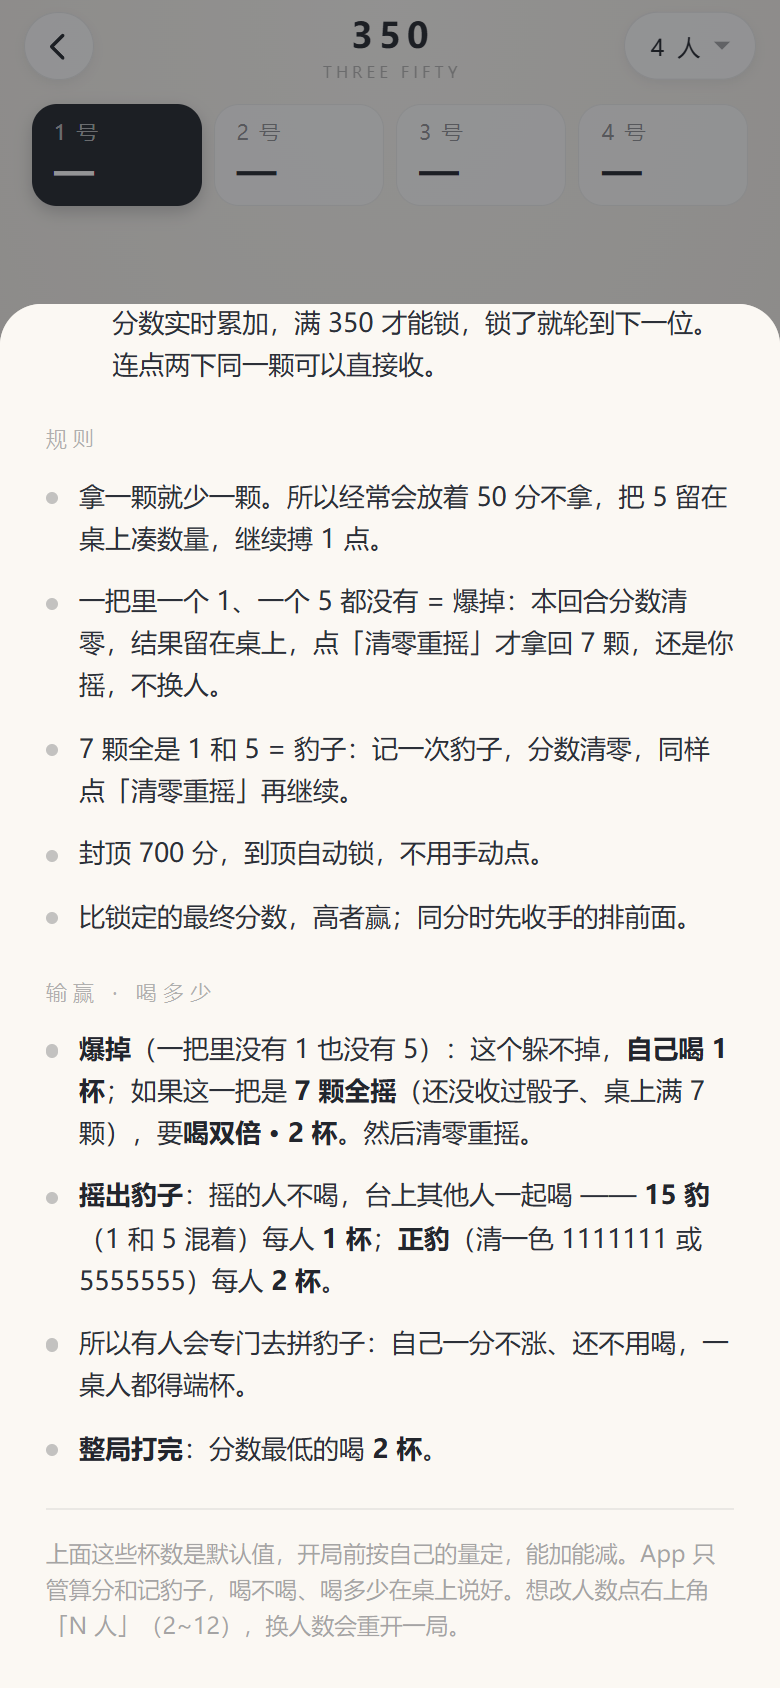
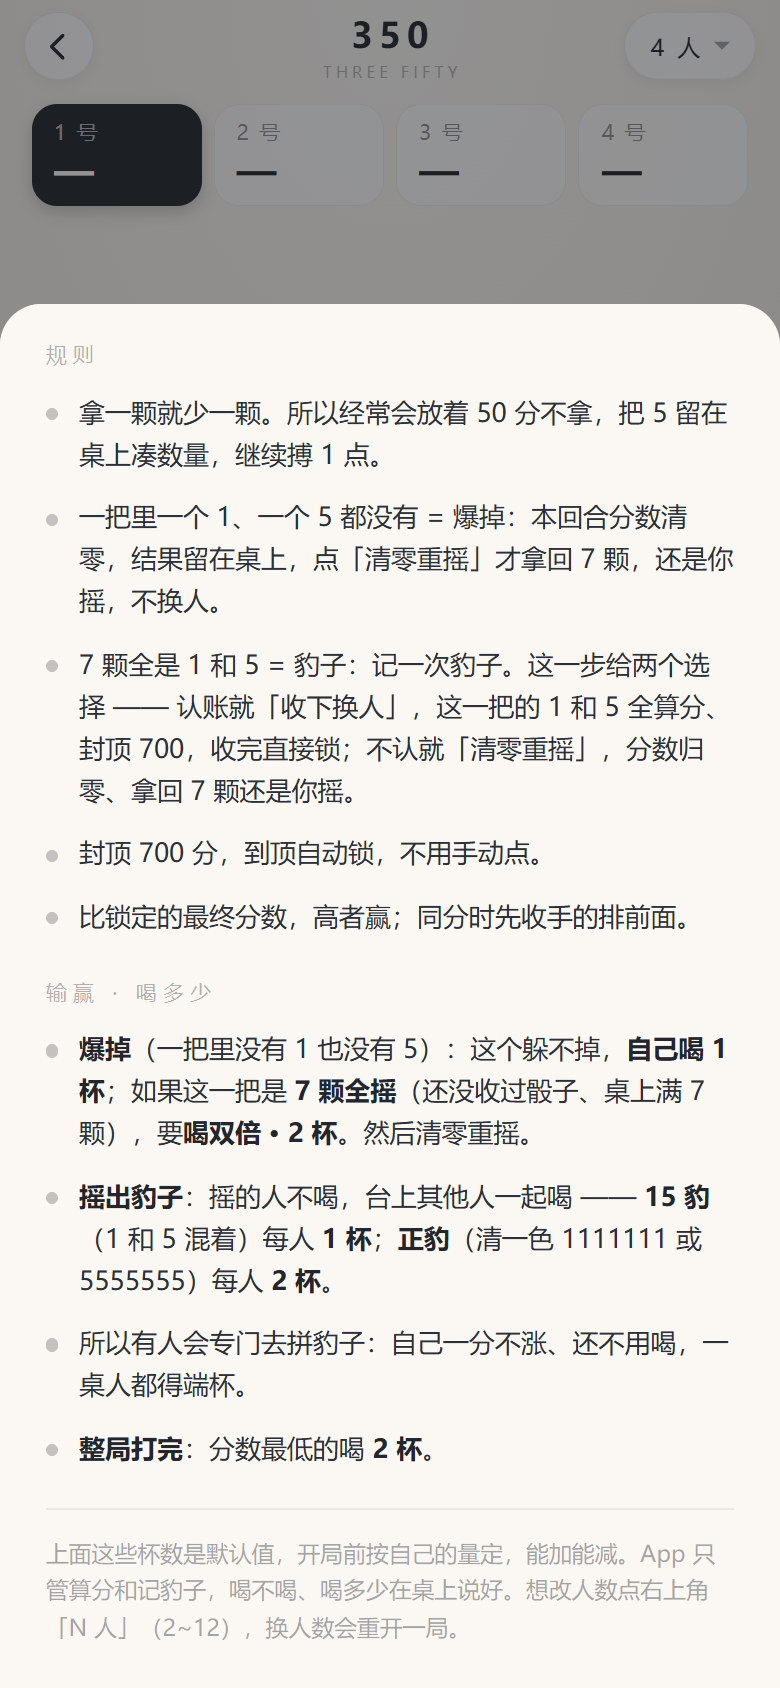
chore: sync

diff --git a/app/src/clean/assets/www/f350.js b/app/src/clean/assets/www/f350.js
@@ -200,8 +200,8 @@
         G.phase = 'ready';
       }
       if (G.phase === 'lion') {
-        hint(o.lionPure ? '正豹！其他每人喝 2 杯 · 点「清零重摇」继续'
-                        : '15 豹！其他每人喝 1 杯 · 点「清零重摇」继续', 'gold');
+        hint(o.lionPure ? '正豹！其他每人喝 2 杯 · 收下换人，或清零重摇'
+                        : '15 豹！其他每人喝 1 杯 · 收下换人，或清零重摇', 'gold');
       } else if (G.phase === 'bust') {
         hint(bustText(liveHand().length), 'warn');
       } else if (G.phase === 'rolled') {
@@ -315,16 +315,16 @@
       var pure = allOne || allFive;
       G.lionPure = pure;
       current().lion = (current().lion || 0) + 1;
-      G.round = 0;
-      G.taken = [];
       G.took = false;
-      /* 豹子跟爆掉一样，结果留在桌上等人看 —— 一桌人都得看清是正豹还是 15 豹才认账，
-         骰子瞬间变空位等于什么都没发生。按钮只剩「清零重摇」，谁看够了谁按。 */
+      /* 豹子停在桌上，给人两个选择：
+           ① 认账 -> 「收下 X 分 · 换人」，这一把的 1 和 5 全算分（7 颗最少 350、最多 700），收完直接锁
+           ② 不认 -> 「清零重摇」，分数归零、拿回 7 颗，还是他摇
+         以前这里一律清零，等于替玩家做了决定：明明摇出全桌最大的牌，分数却没了。 */
       G.phase = 'lion';
       save();
       render();
-      hint(pure ? '正豹！其他每人喝 2 杯 · 点「清零重摇」继续'
-                : '15 豹！其他每人喝 1 杯 · 点「清零重摇」继续', 'gold');
+      hint(pure ? '正豹！其他每人喝 2 杯 · 收下换人，或清零重摇'
+                : '15 豹！其他每人喝 1 杯 · 收下换人，或清零重摇', 'gold');
       vibrate([16, 60, 16, 60, 26]);
       return;
     }
@@ -349,6 +349,14 @@
     }
 
     hint('点要拿走的 1 和 5 · 不点的留在桌上继续摇');
+  }
+
+  /* 豹子这一把值多少分：7 颗全是 1 和 5，全都计分，所以就是全桌的总和（350~700）。
+     「收下换人」按这个数收，不点收就是清零重摇。 */
+  function lionGain() {
+    var list = liveHand(), g = 0;
+    for (var i = 0; i < list.length; i++) g += pointsOf(list[i].v);
+    return Math.min(CAP, g);
   }
 
   /* 爆掉的文案：一把里一个 1 一个 5 都没有就喝 1 杯；
@@ -663,7 +671,10 @@
       } else {
         list.push({ t: '点骰子收分', cls: 'primary is-off', act: 'pick' });
       }
-    } else if (G.phase === 'bust' || G.phase === 'lion') {
+    } else if (G.phase === 'lion') {
+      list.push({ t: '收下 ' + lionGain() + ' 分', cls: 'primary', act: 'liontake' });
+      list.push({ t: '清零重摇', cls: 'ghost', act: 'bust' });
+    } else if (G.phase === 'bust') {
       list.push({ t: '清零重摇', cls: 'primary', act: 'bust' });
     } else {
       var left = liveHand().length;
@@ -840,9 +851,19 @@
     if (act === 'roll') onRoll();
     else if (act === 'pick') onPick();
     else if (act === 'lock') lockTurn();
+    else if (act === 'liontake') {
+      /* 认这一把豹子：1 和 5 全算分，收完直接锁，换下一位 */
+      G.round = Math.min(CAP, G.round + lionGain());
+      G.took = true;
+      render();
+      lockTurn();
+    }
     else if (act === 'bust') {
-      /* 玩家自己按的：拿回 7 颗、清掉桌上结果，还是他摇 */
+      /* 玩家自己按的：拿回 7 颗、清掉桌上结果，还是他摇。
+         豹子走这条时分数也要一起清 —— 按钮上写的就是「清零重摇」。 */
       G.hand = blankHand();
+      G.round = 0;
+      G.taken = [];
       G.phase = 'ready';
       G.took = false;
       save();
@@ -1148,7 +1169,8 @@
       rules: [
         '拿一颗就少一颗。所以经常会放着 50 分不拿，把 5 留在桌上凑数量，继续搏 1 点。',
         '一把里一个 1、一个 5 都没有 = 爆掉：本回合分数清零，结果留在桌上，点「清零重摇」才拿回 7 颗，还是你摇，不换人。',
-        '7 颗全是 1 和 5 = 豹子：记一次豹子，分数清零，同样点「清零重摇」再继续。',
+        '7 颗全是 1 和 5 = 豹子：记一次豹子。这一步给两个选择 —— 认账就「收下换人」，' +
+        '这一把的 1 和 5 全算分、封顶 700，收完直接锁；不认就「清零重摇」，分数归零、拿回 7 颗还是你摇。',
         '封顶 700 分，到顶自动锁，不用手动点。',
         '比锁定的最终分数，高者赢；同分时先收手的排前面。'
       ],

diff --git a/app/src/full/assets/www/f350.js b/app/src/full/assets/www/f350.js
@@ -200,8 +200,8 @@
         G.phase = 'ready';
       }
       if (G.phase === 'lion') {
-        hint(o.lionPure ? '正豹！其他每人喝 2 杯 · 点「清零重摇」继续'
-                        : '15 豹！其他每人喝 1 杯 · 点「清零重摇」继续', 'gold');
+        hint(o.lionPure ? '正豹！其他每人喝 2 杯 · 收下换人，或清零重摇'
+                        : '15 豹！其他每人喝 1 杯 · 收下换人，或清零重摇', 'gold');
       } else if (G.phase === 'bust') {
         hint(bustText(liveHand().length), 'warn');
       } else if (G.phase === 'rolled') {
@@ -315,16 +315,16 @@
       var pure = allOne || allFive;
       G.lionPure = pure;
       current().lion = (current().lion || 0) + 1;
-      G.round = 0;
-      G.taken = [];
       G.took = false;
-      /* 豹子跟爆掉一样，结果留在桌上等人看 —— 一桌人都得看清是正豹还是 15 豹才认账，
-         骰子瞬间变空位等于什么都没发生。按钮只剩「清零重摇」，谁看够了谁按。 */
+      /* 豹子停在桌上，给人两个选择：
+           ① 认账 -> 「收下 X 分 · 换人」，这一把的 1 和 5 全算分（7 颗最少 350、最多 700），收完直接锁
+           ② 不认 -> 「清零重摇」，分数归零、拿回 7 颗，还是他摇
+         以前这里一律清零，等于替玩家做了决定：明明摇出全桌最大的牌，分数却没了。 */
       G.phase = 'lion';
       save();
       render();
-      hint(pure ? '正豹！其他每人喝 2 杯 · 点「清零重摇」继续'
-                : '15 豹！其他每人喝 1 杯 · 点「清零重摇」继续', 'gold');
+      hint(pure ? '正豹！其他每人喝 2 杯 · 收下换人，或清零重摇'
+                : '15 豹！其他每人喝 1 杯 · 收下换人，或清零重摇', 'gold');
       vibrate([16, 60, 16, 60, 26]);
       return;
     }
@@ -349,6 +349,14 @@
     }
 
     hint('点要拿走的 1 和 5 · 不点的留在桌上继续摇');
+  }
+
+  /* 豹子这一把值多少分：7 颗全是 1 和 5，全都计分，所以就是全桌的总和（350~700）。
+     「收下换人」按这个数收，不点收就是清零重摇。 */
+  function lionGain() {
+    var list = liveHand(), g = 0;
+    for (var i = 0; i < list.length; i++) g += pointsOf(list[i].v);
+    return Math.min(CAP, g);
   }
 
   /* 爆掉的文案：一把里一个 1 一个 5 都没有就喝 1 杯；
@@ -663,7 +671,10 @@
       } else {
         list.push({ t: '点骰子收分', cls: 'primary is-off', act: 'pick' });
       }
-    } else if (G.phase === 'bust' || G.phase === 'lion') {
+    } else if (G.phase === 'lion') {
+      list.push({ t: '收下 ' + lionGain() + ' 分', cls: 'primary', act: 'liontake' });
+      list.push({ t: '清零重摇', cls: 'ghost', act: 'bust' });
+    } else if (G.phase === 'bust') {
       list.push({ t: '清零重摇', cls: 'primary', act: 'bust' });
     } else {
       var left = liveHand().length;
@@ -840,9 +851,19 @@
     if (act === 'roll') onRoll();
     else if (act === 'pick') onPick();
     else if (act === 'lock') lockTurn();
+    else if (act === 'liontake') {
+      /* 认这一把豹子：1 和 5 全算分，收完直接锁，换下一位 */
+      G.round = Math.min(CAP, G.round + lionGain());
+      G.took = true;
+      render();
+      lockTurn();
+    }
     else if (act === 'bust') {
-      /* 玩家自己按的：拿回 7 颗、清掉桌上结果，还是他摇 */
+      /* 玩家自己按的：拿回 7 颗、清掉桌上结果，还是他摇。
+         豹子走这条时分数也要一起清 —— 按钮上写的就是「清零重摇」。 */
       G.hand = blankHand();
+      G.round = 0;
+      G.taken = [];
       G.phase = 'ready';
       G.took = false;
       save();
@@ -1148,7 +1169,8 @@
       rules: [
         '拿一颗就少一颗。所以经常会放着 50 分不拿，把 5 留在桌上凑数量，继续搏 1 点。',
         '一把里一个 1、一个 5 都没有 = 爆掉：本回合分数清零，结果留在桌上，点「清零重摇」才拿回 7 颗，还是你摇，不换人。',
-        '7 颗全是 1 和 5 = 豹子：记一次豹子，分数清零，同样点「清零重摇」再继续。',
+        '7 颗全是 1 和 5 = 豹子：记一次豹子。这一步给两个选择 —— 认账就「收下换人」，' +
+        '这一把的 1 和 5 全算分、封顶 700，收完直接锁；不认就「清零重摇」，分数归零、拿回 7 颗还是你摇。',
         '封顶 700 分，到顶自动锁，不用手动点。',
         '比锁定的最终分数，高者赢；同分时先收手的排前面。'
       ],

diff --git a/app/src/clean/assets/www/index.html b/app/src/clean/assets/www/index.html
@@ -63,7 +63,7 @@
 
     <div class="home-tip" id="homeTip"></div>
 
-    <div class="home-foot" id="homeVer">v1.10.8 · 仅供朋友聚会娱乐</div>
+    <div class="home-foot" id="homeVer">v1.10.9 · 仅供朋友聚会娱乐</div>
   </div>
 </div>
 
@@ -179,7 +179,7 @@
     <div class="hint" id="hint">点「摇一摇」开始这一局</div>
     <div class="btn-row" id="btnRow"></div>
     <div class="foot">
-      <span>v1.10.8</span>
+      <span>v1.10.9</span>
       <button class="mode-link" id="ruleBtn">玩法说明</button>
     </div>
   </div>

diff --git a/app/src/full/assets/www/index.html b/app/src/full/assets/www/index.html
@@ -63,7 +63,7 @@
 
     <div class="home-tip" id="homeTip"></div>
 
-    <div class="home-foot" id="homeVer">v1.10.8 · 仅供朋友聚会娱乐</div>
+    <div class="home-foot" id="homeVer">v1.10.9 · 仅供朋友聚会娱乐</div>
   </div>
 </div>
 
@@ -179,7 +179,7 @@
     <div class="hint" id="hint">点「摇一摇」开始这一局</div>
     <div class="btn-row" id="btnRow"></div>
     <div class="foot">
-      <span>v1.10.8</span>
+      <span>v1.10.9</span>
       <button class="mode-link" id="ruleBtn">玩法说明</button>
     </div>
   </div>

diff --git a/app/src/clean/assets/www/sw.js b/app/src/clean/assets/www/sw.js
@@ -1,5 +1,5 @@
 /* 离线缓存：装到桌面后断网也能玩 */
-var CACHE = 'liars-dice-clean-v34';
+var CACHE = 'liars-dice-clean-v35';
 var FILES = [
   './',
   './index.html',

diff --git a/app/src/full/assets/www/sw.js b/app/src/full/assets/www/sw.js
@@ -1,5 +1,5 @@
 /* 离线缓存：装到桌面后断网也能玩 */
-var CACHE = 'liars-dice-v34';
+var CACHE = 'liars-dice-v35';
 var FILES = [
   './',
   './index.html',

diff --git a/README.md b/README.md
@@ -163,7 +163,7 @@ APK 里的 `assets/www` 是从仓库外的两个源码目录同步来的（`liar
 | 爆掉 | 一把里**一个 1 也没有、一个 5 也没有** → 本回合分清零，**等你按「清零重摇」**才拿回 7 颗继续。不换人，也不自动清屏。**摇的人喝 1 杯；但如果这一把是 7 颗全摇，要喝双倍 2 杯** |
 | 收手 | **满 350 分才能锁**，锁了就轮到下一位 |
 | 封顶 | **700 分**，到顶自动锁，不用手动点 |
-| 豹子 | 7 颗**全是 1 和 5** → 记 1 次豹子（只做记录，不影响胜负），分数清零，**同样等你按「清零重摇」**才继续，还是他摇。**摇的人不喝，台上其他人喝**：混着 1 和 5 的「15 豹」每人 1 杯，清一色 1111111 / 5555555 的「正豹」每人 2 杯 |
+| 豹子 | 7 颗**全是 1 和 5** → 记 1 次豹子，**骰子停在桌上给两个选择**：①「**收下 N 分**」= 这一把的 1 和 5 全算分（7 颗最少 350、最多 700），收完直接锁分换下一位；②「**清零重摇**」= 分数归零、拿回 7 颗，还是他摇。**摇的人不喝，台上其他人喝**：混着 1 和 5 的「15 豹」每人 1 杯，清一色 1111111 / 5555555 的「正豹」每人 2 杯 |
 | 胜负 | 比锁定的最终分数，高者胜；**同分时先收手的排前面**，**分数最低的喝 2 杯** |
 
 <p align="center">
@@ -190,7 +190,10 @@ APK 里的 `assets/www` 是从仓库外的两个源码目录同步来的（`liar
 爆掉那条的「双倍」是冲着**满手一把就空**去的：7 颗全摇、一个 1 一个 5 都没出，等于这一把白摇，
 桌上通常当加倍罚。已经收走几颗、剩 5 颗 6 颗再爆，就只算一杯。
 
-豹子这一条的关键是**摇的人不喝**：自己一分不涨，还得把分数清零重摇，代价已经先付了，一桌人端杯。
+豹子这一条的关键是**摇的人不喝**：一桌人端杯，他自己只拿牌。
+
+至于**要不要这一把的分**，App 把选择权交回桌上：认账就「收下 N 分」锁分走人（全桌喝照旧），
+不认就「清零重摇」继续搏 —— 7 颗全 1/5 的分数在 350~700 之间，收不收都不亏，看谁敢赌下一把。
 
 所以打到中后段会有人专门去**拼豹子** —— 反正手气不好、分也追不上，干脆搏一把全桌陪你喝。
 这也是 350 比闷头算分好玩的地方：桌上多了一个「要不要赌一把」的选择。
@@ -240,23 +243,27 @@ App 不记谁喝了多少，也记不了 —— 桌上说好的规矩比 App 重
 顺带解释一下为什么爆掉时旁边那个「锁分」按钮也一起收起来了：本回合分数已经是 0，
 锁无可锁，留个灰按钮在旁边只会让人以为还能点。
 
-### 豹子也停在桌上，看够了再按
+### 豹子也停在桌上，收不收你说了算
 
 <p align="center">
-  <img src="docs/shots/f350-lion.png" width="29%" alt="15 豹：7 颗 1 和 5 停在桌上，1 号卡上多了「豹子 ×1」，金提示写着其他每人喝 1 杯，底部只有「清零重摇」">
+  <img src="docs/shots/f350-lion.png" width="29%" alt="15 豹：7 颗 1 和 5 停在桌上，1 号卡上多了「豹子 ×1」，金提示写着其他每人喝 1 杯，底部是「收下 550 分」和「清零重摇」两个按钮">
 </p>
 
-豹子以前是**瞬间翻篇**的：骰子立刻变回 7 个空位、分数归零，屏幕上只闪一下提示。
-一桌人还没数清是三个 1 四个 5 还是清一色，画面已经回到「摇一摇」了 ——
-看着很像「出了豹子就轮到下一位」，其实还是同一个人，只是没人看得见。
+豹子以前是**替玩家做决定**的：要么瞬间翻篇（骰子变回 7 个空位、分数归零，一桌人还没数清就没了），
+要么一律清零 —— 明明摇出全桌最大的一手，分却不算数。
 
-现在豹子和爆掉一个待遇：**骰子原样停在桌上，底部只留一个「清零重摇」**，
-提示用金字写明「**正豹！其他每人喝 2 杯**」还是「**15 豹！其他每人喝 1 杯**」，
-玩家卡上同时记下「豹子 ×1」。
+现在豹子跟爆掉一样**停在桌上**，但多给一个选择：
 
-- 谁看够了谁按，按了才拿回 7 颗，**还是同一个人继续摇**，不锁分也不换人
-- 没按就退出 App，回来说的还是这一步：骰子、提示、豹子标记都在
-- 这段停留不改任何判定 —— 记豹子、清零、喝几杯，都和以前一样，只是把「看」的时间留出来
+- **收下 N 分**：这一把的 1 和 5 全算分，7 颗最少 350、最多 700（到顶按 700 封），
+  收完直接锁分、换下一位。**喝酒照旧** —— 豹子该谁喝还是谁喝，跟收不收分无关
+- **清零重摇**：分数归零、拿回 7 颗，**还是同一个人摇**，接着搏
+
+按哪个由桌上定：分够了想稳一手就收，落后想翻盘就清。App 只把两条路摆在按钮上。
+
+- 一个都不按就退出 App，回来还是这一步：骰子、提示、豹子标记、两个按钮都在
+- 提示用金字写明「**正豹！其他每人喝 2 杯**」还是「**15 豹！其他每人喝 1 杯**」，
+  玩家卡上同时记下「豹子 ×1」
+- 这一步不改任何判定 —— 记豹子、清零、喝几杯，都和以前一样，只是把「收不收」和「看多久」还给玩家
 
 ### 「不点就不拿」是什么意思
 
@@ -346,10 +353,11 @@ App 不记谁喝了多少，也记不了 —— 桌上说好的规矩比 App 重
 - **350 规则**：完全按代码里的判定写 —— 1 点 100、5 点 50、不点就不拿、一炮无分清零、
   7 颗全是 1 和 5 记豹子、满 350 才能锁、封顶 700、同分先收手的排前面
 - **350 输赢**：多一段「**输赢 · 喝多少**」—— 爆掉自己 1 杯（**7 颗全摇爆掉双倍 2 杯**）、
-  15 豹其他人各 1 杯、正豹各 2 杯、整局最低的 2 杯，并注明杯数只是默认值，开局前按自己的量定
+  15 豹其他人各 1 杯、正豹各 2 杯、整局最低的 2 杯，并注明杯数只是默认值，开局前按自己的量定；
+  规则里也写清了豹子那一步的两个选择（收下换人 / 清零重摇）
 
-摇出豹子、摇到爆掉的时候，底部那行提示也把杯数一起说了：**「正豹！其他每人喝 2 杯 · 点「清零重摇」继续」**、
-**「15 豹！其他每人喝 1 杯 · 点「清零重摇」继续」**、**「爆了 · 喝 1 杯 · 分数清零」**、
+摇出豹子、摇到爆掉的时候，底部那行提示也把杯数一起说了：**「正豹！其他每人喝 2 杯 · 收下换人，或清零重摇」**、
+**「15 豹！其他每人喝 1 杯 · 收下换人，或清零重摇」**、**「爆了 · 喝 1 杯 · 分数清零」**、
 **「爆了 · 7 颗全摇 · 喝双倍 2 杯」**；
 结算页标题下面写着「同分先收手的排前面 · **最低的喝 2 杯**」。
 不用翻说明，当下就知道该谁端杯。
